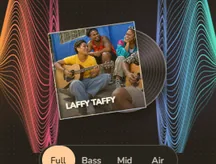
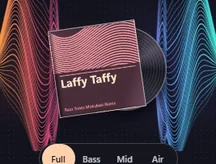
Finish the touch-tested Sota Kece phone pilot

diff --git a/music-displays.css b/music-displays.css
@@ -315,6 +315,7 @@ html body.sx-enabled #app.sx-app #sk-music-playlist.sk-display-enabled .sk-displ
 #sk-music-playlist .sk-wave-nav small {font-size:10px;color:#eccde3}
 #sk-music-playlist .sk-wave-nav button {width:44px;height:44px;min-height:44px;padding:0;border:0;border-radius:8px;background:transparent;color:#fff;font:400 25px/1 system-ui;box-shadow:none}
 #sk-music-playlist .sk-wave-nav button:disabled {opacity:.3}
+#sk-music-playlist .sk-display-bar button,#sk-music-playlist .sk-display-sheet button,#sk-music-playlist .sk-wave-nav button {touch-action:manipulation}
 #sk-music-playlist [data-layout=wave] .sk-display-angle {z-index:2}
 @media(prefers-reduced-motion:reduce){#sk-music-playlist .sk-display-stage .sk-wave-cover {transition:none}}
 #sk-music-playlist .sk-display-stage[data-layout=arc] {background:radial-gradient(ellipse at 15% 85%,#392a30,transparent 65%),#17161e}

diff --git a/music-playlist.js b/music-playlist.js
@@ -92,7 +92,8 @@ function createUpNext({el,button,available,changed}) {
     painted=signature;
     empty.hidden=!!songs.length;
     list.hidden=!songs.length;
-    list.replaceChildren(...songs.map((track,index)=>{
+    list.textContent='';
+    list.append(...songs.map((track,index)=>{
       const row=el('li',undefined,'up-next-track');
       row.dataset.queueTrack=key(track);
       row.append(el('span',track.title,'up-next-song'));

diff --git a/TRACKER.md b/TRACKER.md
@@ -47,7 +47,6 @@ Added TRACKER.md merge=union while preserving other Git attributes. Git attribut
 ## In progress — claim a task here BEFORE you start it
 | Started | AI | Task | Branch / PR |
 |---|---|---|---|
-| 2026-11-22 | Codex | Ops 1429 · waveform dial, individual sleeves and Wave Stage browsing for phone review | agent/codex/build-five-swappable-music-menu-displays-in-sota-kece/3 |
 | 2026-11-22 | Claude | Song Scratch (Ops task 1428): new page song-scratch.html, scratch a photo away to reveal a playing Island Mix song card, save as story video or picture, plus a story editor (text, stickers, drawing, filters, card styles, move/pinch/turn, bin, undo) and the bigger editor (video clips, photo layouts, crop/zoom/turn, moving stickers, animated text, own stickers, templates, backgrounds, scratch on/off, drafts on the phone). Built, waiting for merge | agent/claude/song-scratch-story-scratch-a-photo-away-to-reveal-a-song-card/1 |
 | 2026-11-18 | Claude | Keys rebuilt off Vercel: no service key on the Worker (sota-server edge function), fresh SERE_SECRET — built, waiting for Donovan to merge | claude/rebuild-keys-20261118 |
 | 2026-11-18 | Claude | App-store shell: Capacitor 8 in `mobile/` (com.sotakece.app) loading sotakece.com, Android + iOS projects, icons, camera/mic permissions, docs/APP_STORES.md. Not built or uploaded: needs Android Studio, a Mac for iOS, store accounts | claude/capacitor-app-stores |
@@ -160,6 +159,7 @@ Do not carry over the prototype's dark theme, its invented village content or it
 - Testing: not tested
 
 ## Done — newest first
+- 2026-11-22 — Codex, Ops 1429 — Built the phone pilot on the saved sign-up and Up Next revisions. Arc shows measured whole-track waveforms and a four-times magnified seek window with release-to-seek and cancellation. The first eight catalogue envelopes total 11.5 KB. Sleeves use catalogue artwork, embedded MP3 cover art or an individual title-and-artist design. Dragging through Wave Stage preserves playback until a sleeve is tapped. Confirmed real touch events at 390×844, landscape fit, keyboard and mouse controls, both artwork paths, and uninterrupted catalogue playback from Laffy Taffy to Self Invited. The Sota Kece Ops card tracks the phone review link. Portfolio rollout awaits Donovan's phone trial.
 - 2026-11-22 — Codex, Ops 1429 — Rebuilt the five displays following Donovan's visual review. The expanded player has selectable FFT ribbons, a calibrated seek dial, a swipeable spectral landscape, an interactive 3D tone sculpture, and a five-band response curve with an inspectable spectrogram. Local review on Donovan's PC at http://127.0.0.1:18250/?music-display=wings#music. Real catalogue playback verified. The merged Song Scratch baseline passed 800 tests with zero skips. Chromium passed the phone and desktop interaction checks, including continuous playback, keyboard controls, EQ, spectrogram inspection, and deep links. Portfolio rollout awaits Donovan's review.
 - 2026-11-22 — Codex, Ops 1429 — Implemented Equalizer Wings, Arc Control, Wave Stage, Frosted Glass and Pro Studio EQ in the existing Music Menu. The chooser remembers the layout. All five use the playlist audio element and one five-band audio graph. The guest Music route passed real decoded-audio checks in Chromium at 390 and 1440 px, including uninterrupted switching, arc seeking, track navigation, live EQ, Flat reset and reload. 795 host tests passed with zero skips after reconciling the saved Song Scratch revision (f1351d9). Restricted to Sota Kece pending Donovan's review. PR #530 is ready for local review. The review build loaded the 461-song catalogue and played Laffy Taffy. GitHub job 137291211355 reports that the Actions account is billing-locked, so hosted checks and public release are pending.
 - 2026-11-21 — Claude — **Dimau app switcher** (Ops task 1259; Donovan: "Add the Dimau app switcher to Sota Kece"; super-app SPEC rollout step 6). `dimau-shell.js` byte copy (data-app sota-kece, launcher none, no client id: Sota Kece already signs in on the shared project). 'Dimau apps' 9-dot button beside Search from 421 px up; on narrower phones it would squeeze the Sota Kece name, so it hides and a ☰ menu item opens the switcher (focus returns to ☰ on close). Release v208. Checked in a browser at 375 and 1440 px: opens, Sota Kece marked current, Escape closes, no sideways scroll, no console errors. 784/784 tests.
